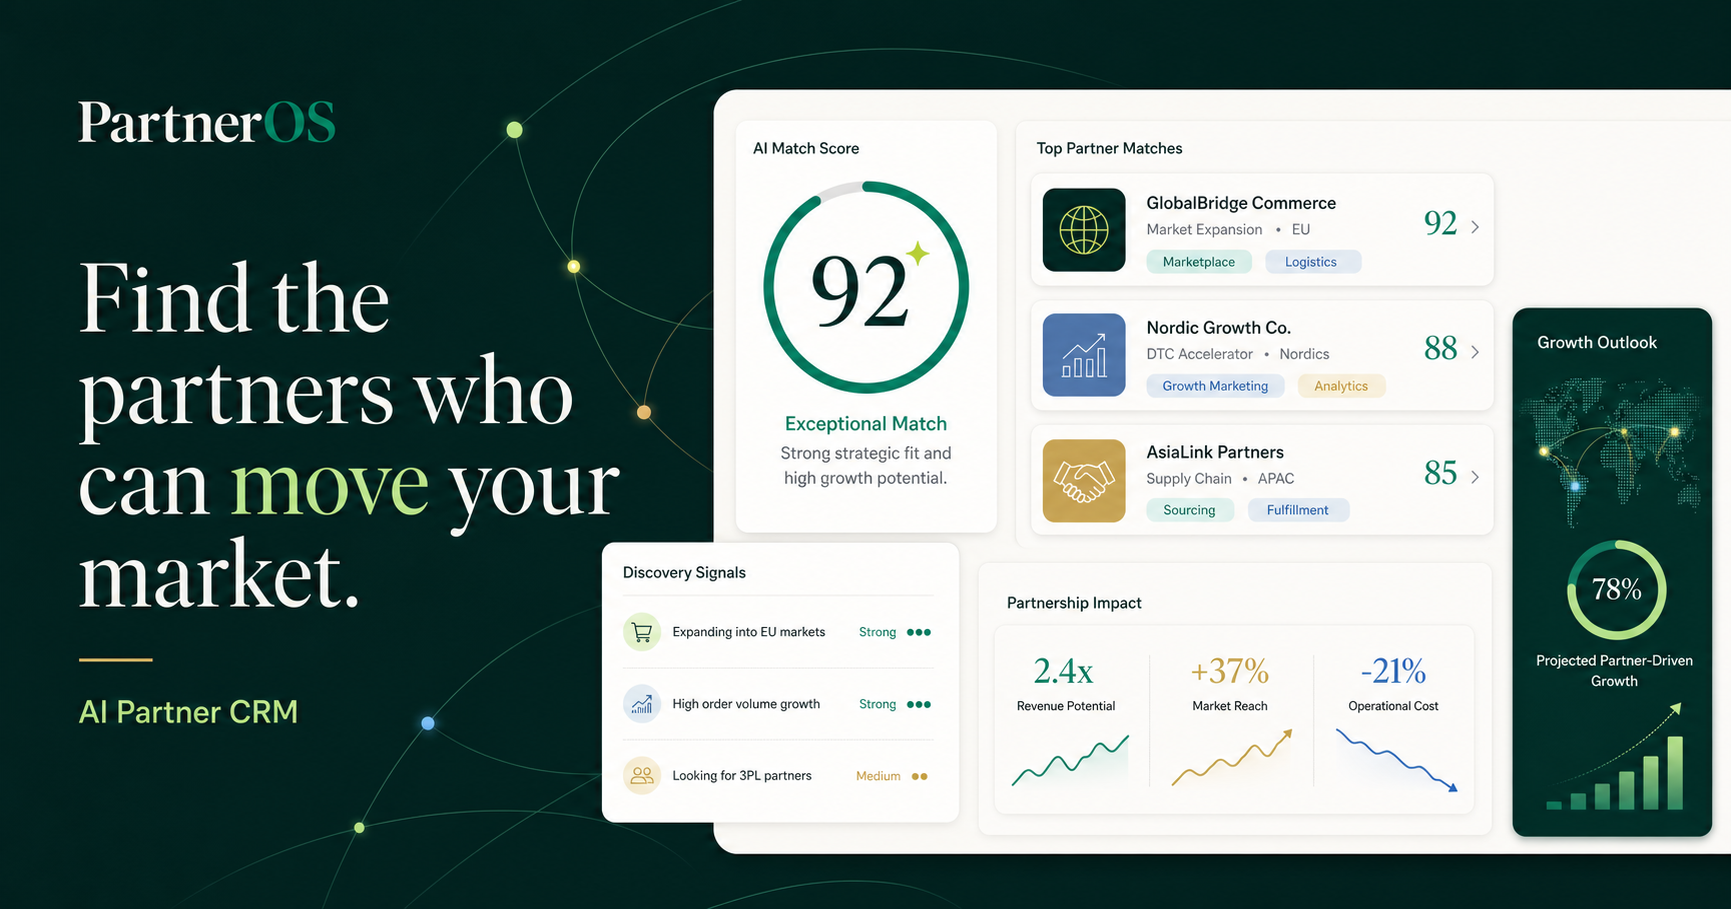
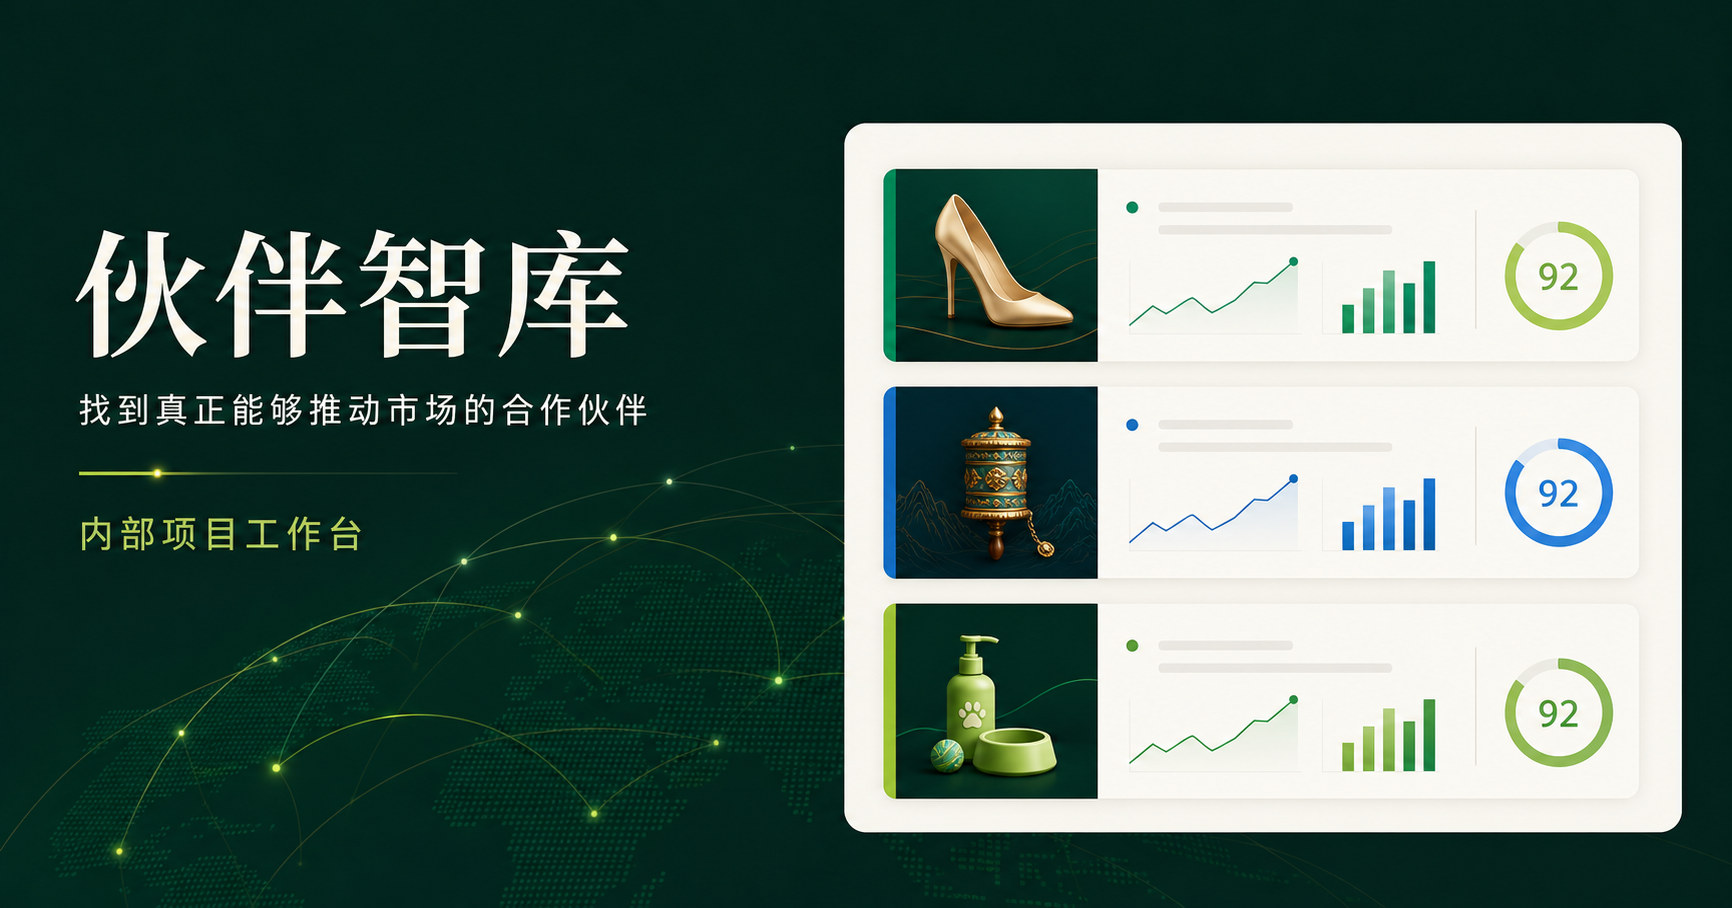
Add Chinese project workspaces

diff --git a/app/page.tsx b/app/page.tsx
@@ -2,116 +2,68 @@
 
 import { useMemo, useState } from "react";
 
-type Partner = {
-  name: string; handle: string; type: string; platform: string; niche: string;
-  followers: string; engagement: string; score: number; tier: "A" | "B" | "C";
-  status: string; contact: string; color: string; initials: string;
-};
+type Partner = { name:string; handle:string; type:string; platform:string; niche:string; followers:string; engagement:string; score:number; tier:"A"|"B"|"C"; status:string; contact:string; color:string; initials:string };
+type Project = { id:string; name:string; brand:string; product:string; market:string; code:string; description:string; partnerTypes:string; signals:string; cooperation:string; metrics:{found:number;qualified:number;ready:number;score:number}; partners:Partner[] };
 
-const partners: Partner[] = [
-  { name: "Sofia Reyes", handle: "@sofiastyled", type: "KOC", platform: "Instagram", niche: "Luxury shoes · Styling", followers: "42.8K", engagement: "4.8%", score: 92, tier: "A", status: "Contact Ready", contact: "[email redacted]", color: "#ead7c3", initials: "SR" },
-  { name: "The Bridal Edit", handle: "thebridaledit.com", type: "Affiliate", platform: "Blog", niche: "Wedding fashion · Reviews", followers: "128K", engagement: "3.9%", score: 88, tier: "A", status: "Qualified", contact: "[email redacted]", color: "#d4d9ef", initials: "BE" },
-  { name: "Maya Chen", handle: "@walkwithmaya", type: "Creator", platform: "YouTube", niche: "Try-on · Petite fashion", followers: "76.2K", engagement: "5.2%", score: 86, tier: "B", status: "Contacted", contact: "[email redacted]", color: "#cfe6dc", initials: "MC" },
-  { name: "Modern Heel", handle: "modernheel.com", type: "Media", platform: "Blog", niche: "Footwear · Editorial", followers: "91K", engagement: "2.7%", score: 79, tier: "B", status: "Replied", contact: "[email redacted]", color: "#e6d6cf", initials: "MH" },
-  { name: "Alexis Ward", handle: "@alexiswardrobe", type: "KOC", platform: "Instagram", niche: "Workwear · Shoe reviews", followers: "18.4K", engagement: "6.1%", score: 77, tier: "B", status: "Discovered", contact: "Contact page found", color: "#d8e3cd", initials: "AW" },
-  { name: "Luxe for Less", handle: "luxeforless.co", type: "Affiliate", platform: "Blog", niche: "Deals · Luxury fashion", followers: "210K", engagement: "1.9%", score: 68, tier: "C", status: "Discovered", contact: "Email not found", color: "#e3d6e8", initials: "LL" },
+const projects: Project[] = [
+  { id:"heels-us", name:"美国手工高跟鞋合作伙伴开发", brand:"AORARA", product:"手工高跟鞋", market:"美国", code:"HH-US-01", description:"优先寻找拥有美国女性受众、近期发布鞋履内容的中小型创作者与婚礼时尚联盟站。", partnerTypes:"KOC · 5千–8万粉丝 / 婚礼博主 / 时尚联盟站", signals:"试穿 · 鞋履测评 · 婚礼穿搭", cooperation:"产品寄样 · 12% 佣金", metrics:{found:248,qualified:67,ready:41,score:78}, partners:[
+    {name:"Sofia Reyes",handle:"@sofiastyled",type:"KOC",platform:"Instagram",niche:"高端鞋履 · 穿搭",followers:"4.28万",engagement:"4.8%",score:92,tier:"A",status:"待联系",contact:"[email redacted]",color:"#ead7c3",initials:"SR"},
+    {name:"The Bridal Edit",handle:"thebridaledit.com",type:"联盟站",platform:"独立博客",niche:"婚礼时尚 · 测评",followers:"12.8万",engagement:"3.9%",score:88,tier:"A",status:"已入选",contact:"[email redacted]",color:"#d4d9ef",initials:"BE"},
+    {name:"Maya Chen",handle:"@walkwithmaya",type:"创作者",platform:"YouTube",niche:"试穿 · 小个子穿搭",followers:"7.62万",engagement:"5.2%",score:86,tier:"B",status:"已联系",contact:"[email redacted]",color:"#cfe6dc",initials:"MC"},
+    {name:"Modern Heel",handle:"modernheel.com",type:"媒体",platform:"独立博客",niche:"鞋履 · 编辑内容",followers:"9.1万",engagement:"2.7%",score:79,tier:"B",status:"已回复",contact:"[email redacted]",color:"#e6d6cf",initials:"MH"},
+    {name:"Alexis Ward",handle:"@alexiswardrobe",type:"KOC",platform:"Instagram",niche:"职场穿搭 · 鞋履测评",followers:"1.84万",engagement:"6.1%",score:77,tier:"B",status:"新发现",contact:"已找到联系页面",color:"#d8e3cd",initials:"AW"}
+  ]},
+  { id:"tibet-global", name:"藏文化产品全球内容合作", brand:"TIBETAN TREASURES", product:"藏文化艺术与冥想产品", market:"美国、英国", code:"TC-GL-02", description:"寻找关注佛教文化、冥想、瑜伽与艺术收藏的创作者和媒体，强调文化尊重与内容质量。", partnerTypes:"灵性博主 / 瑜伽创作者 / 艺术媒体", signals:"冥想 · 佛教文化 · 艺术收藏", cooperation:"内容共创 · 专家访谈 · 寄样", metrics:{found:136,qualified:38,ready:19,score:74}, partners:[
+    {name:"Quiet Mind Studio",handle:"@quietmindstudio",type:"创作者",platform:"YouTube",niche:"冥想 · 东方文化",followers:"8.6万",engagement:"4.4%",score:90,tier:"A",status:"待联系",contact:"[email redacted]",color:"#ddd1bd",initials:"QM"},
+    {name:"Sacred Arts Journal",handle:"sacredartsjournal.com",type:"媒体",platform:"独立博客",niche:"宗教艺术 · 收藏",followers:"6.4万",engagement:"3.6%",score:85,tier:"A",status:"已入选",contact:"[email redacted]",color:"#d5c8b4",initials:"SA"},
+    {name:"Emma Flow",handle:"@emmaflowyoga",type:"KOL",platform:"Instagram",niche:"瑜伽 · 正念生活",followers:"15.2万",engagement:"3.2%",score:81,tier:"B",status:"洽谈中",contact:"[email redacted]",color:"#cfded5",initials:"EF"},
+    {name:"The Dharma Path",handle:"thedharmapath.org",type:"社群",platform:"论坛",niche:"佛教学习 · 社群",followers:"3.1万",engagement:"5.8%",score:76,tier:"B",status:"新发现",contact:"管理员联系表单",color:"#e6d9c9",initials:"DP"}
+  ]},
+  { id:"pet-us", name:"美国宠物口腔护理达人计划", brand:"PETSMILE LAB", product:"宠物口腔护理产品", market:"美国", code:"PC-US-03", description:"重点开发兽医、宠物护理博主和专业宠物媒体，优先选择可信度高、内容科学严谨的合作伙伴。", partnerTypes:"兽医 KOL / 宠物护理博主 / 行业媒体", signals:"口腔护理 · 兽医科普 · 产品测评", cooperation:"专业测评 · 付费内容 · 联盟佣金", metrics:{found:184,qualified:52,ready:33,score:82}, partners:[
+    {name:"Dr. Kelly Pets",handle:"@drkellypets",type:"兽医 KOL",platform:"YouTube",niche:"兽医科普 · 口腔健康",followers:"19.8万",engagement:"5.6%",score:94,tier:"A",status:"已回复",contact:"[email redacted]",color:"#cfe1dd",initials:"DK"},
+    {name:"Happy Paws Daily",handle:"@happypawsdaily",type:"KOC",platform:"Instagram",niche:"宠物护理 · 产品体验",followers:"5.3万",engagement:"6.4%",score:89,tier:"A",status:"待联系",contact:"[email redacted]",color:"#e8d6c1",initials:"HP"},
+    {name:"Pet Care Review",handle:"petcarereview.com",type:"联盟站",platform:"独立博客",niche:"宠物用品 · 测评",followers:"11.2万",engagement:"3.1%",score:83,tier:"B",status:"已联系",contact:"[email redacted]",color:"#d7ddef",initials:"PR"},
+    {name:"Vet Community US",handle:"vetcommunity.us",type:"社群",platform:"论坛",niche:"兽医交流 · 临床经验",followers:"2.7万",engagement:"7.2%",score:78,tier:"B",status:"新发现",contact:"管理员联系页面",color:"#d4e5d2",initials:"VC"}
+  ]}
 ];
 
-const nav = ["Overview", "Campaigns", "Partner discovery", "Partner CRM", "Outreach", "Analytics"];
+const nav = ["工作台","项目中心","伙伴发现","伙伴 CRM","触达管理","效果分析"];
 
 export default function Home() {
-  const [active, setActive] = useState("Partner discovery");
-  const [selected, setSelected] = useState<Partner | null>(partners[0]);
-  const [query, setQuery] = useState("");
-  const [tier, setTier] = useState("All tiers");
-  const [running, setRunning] = useState(false);
-  const [toast, setToast] = useState("");
-  const [campaignOpen, setCampaignOpen] = useState(false);
-  const [campaigns, setCampaigns] = useState(3);
+  const [active,setActive] = useState("伙伴发现");
+  const [projectId,setProjectId] = useState(projects[0].id);
+  const project = projects.find(x=>x.id===projectId) ?? projects[0];
+  const [selectedName,setSelectedName] = useState(project.partners[0].name);
+  const selected = project.partners.find(x=>x.name===selectedName) ?? project.partners[0];
+  const [query,setQuery] = useState(""); const [tier,setTier] = useState("全部层级");
+  const [running,setRunning] = useState(false); const [toast,setToast] = useState(""); const [campaignOpen,setCampaignOpen] = useState(false);
+  const filtered = useMemo(()=>project.partners.filter(p=>(tier==="全部层级"||p.tier===tier.slice(0,1))&&`${p.name} ${p.type} ${p.niche} ${p.platform}`.toLowerCase().includes(query.toLowerCase())),[project,query,tier]);
+  const notify=(msg:string)=>{setToast(msg);window.setTimeout(()=>setToast(""),2600)};
+  const switchProject=(id:string)=>{const next=projects.find(x=>x.id===id)??projects[0];setProjectId(id);setSelectedName(next.partners[0].name);setQuery("");setTier("全部层级");notify(`已切换到：${next.name}`)};
+  const runDiscovery=()=>{setRunning(true);window.setTimeout(()=>{setRunning(false);notify("发现任务完成，新找到 24 个候选伙伴")},1800)};
 
-  const filtered = useMemo(() => partners.filter(p =>
-    (tier === "All tiers" || p.tier === tier.replace(" tier", "")) &&
-    `${p.name} ${p.type} ${p.niche} ${p.platform}`.toLowerCase().includes(query.toLowerCase())
-  ), [query, tier]);
-
-  function notify(message: string) {
-    setToast(message); window.setTimeout(() => setToast(""), 2600);
-  }
-
-  function runDiscovery() {
-    setRunning(true);
-    window.setTimeout(() => { setRunning(false); notify("Discovery complete · 24 new candidates found"); }, 1800);
-  }
-
-  return (
-    <main className="app-shell">
-      <aside className="sidebar">
-        <div className="brand"><span className="brand-mark">P</span><span>Partner<span className="brand-accent">OS</span></span></div>
-        <div className="workspace"><span className="workspace-avatar">A</span><div><strong>AORARA</strong><small>Global workspace</small></div><span className="chev">⌄</span></div>
-        <nav>
-          <p className="nav-label">WORKSPACE</p>
-          {nav.map((item, i) => <button key={item} className={active === item ? "nav-item active" : "nav-item"} onClick={() => setActive(item)}><span className="nav-icon">{["⌂","◫","⌕","◎","↗","⌁"][i]}</span>{item}{item === "Partner discovery" && <em>24</em>}</button>)}
-          <p className="nav-label lower">MANAGE</p>
-          <button className="nav-item"><span className="nav-icon">▱</span>Templates</button>
-          <button className="nav-item"><span className="nav-icon">⚙</span>Integrations</button>
-        </nav>
-        <div className="trial-card"><div className="trial-icon">✦</div><strong>MVP workspace</strong><p>Connect discovery APIs when you are ready for live data.</p><button onClick={() => notify("Integration settings opened")}>Manage sources</button></div>
-        <div className="user"><span>AL</span><div><strong>Adrian Li</strong><small>Administrator</small></div><button>•••</button></div>
-      </aside>
-
-      <section className="workspace-main">
-        <header className="topbar">
-          <div className="breadcrumbs">Campaigns <span>/</span> <strong>US High Heels Creator Outreach</strong></div>
-          <div className="top-actions"><button className="icon-btn">?</button><button className="icon-btn">♢<i /></button><button className="primary" onClick={() => setCampaignOpen(true)}>＋ New campaign</button></div>
-        </header>
-
-        <div className="content">
-          <div className="campaign-head">
-            <div><div className="eyebrow"><span className="live-dot" /> DISCOVERY ACTIVE</div><h1>Find the partners who can<br/><em>move your market.</em></h1><p>AI-curated creators, affiliates and media matched to AORARA’s handmade heels in the United States.</p></div>
-            <div className="campaign-actions"><button className="secondary" onClick={() => notify("Search strategy regenerated")}>↻ Regenerate strategy</button><button className="run" onClick={runDiscovery} disabled={running}>{running ? <><span className="spinner"/>Searching the web…</> : "▶ Run discovery"}</button></div>
-          </div>
-
-          <div className="metric-grid">
-            <article><div><span className="metric-icon mint">◎</span><small>PARTNERS FOUND</small></div><strong>248</strong><p><b>+24</b> from last run</p></article>
-            <article><div><span className="metric-icon blue">✦</span><small>QUALIFIED</small></div><strong>67</strong><p>27% qualification rate</p></article>
-            <article><div><span className="metric-icon gold">↗</span><small>CONTACT READY</small></div><strong>41</strong><p>61% have verified email</p></article>
-            <article><div><span className="metric-icon lilac">◉</span><small>AVG. MATCH SCORE</small></div><strong>78<span>/100</span></strong><p><b>↑ 6 points</b> this week</p></article>
-          </div>
-
-          <section className="strategy-card">
-            <div className="strategy-top"><div><span className="ai-badge">✦ AI STRATEGY</span><h2>Your current discovery thesis</h2><p>Prioritise micro-creators with strong US female audiences and recent high-intent footwear content.</p></div><button onClick={() => notify("Partner ICP panel opened")}>View Partner ICP →</button></div>
-            <div className="strategy-tags"><div><small>TARGET PROFILES</small><span>KOC · 5K–80K</span><span>Wedding blogger</span><span>Fashion affiliate</span></div><div><small>CONTENT SIGNALS</small><span>Try-on</span><span>Shoe review</span><span>Wedding styling</span></div><div><small>COOPERATION</small><span>Product seeding</span><span>12% commission</span></div></div>
-          </section>
-
-          <div className="table-head"><div><h2>Partner candidates</h2><span>{filtered.length} shown · 248 total</span></div><div className="filters"><label>⌕<input value={query} onChange={e => setQuery(e.target.value)} placeholder="Search partners…"/></label><select value={tier} onChange={e => setTier(e.target.value)}><option>All tiers</option><option>A tier</option><option>B tier</option><option>C tier</option></select><button>☷ Filters <sup>2</sup></button></div></div>
-
-          <div className="partner-layout">
-            <div className="partner-table">
-              <div className="table-row table-labels"><span>PARTNER</span><span>TYPE & PLATFORM</span><span>AUDIENCE</span><span>MATCH</span><span>STATUS</span><span></span></div>
-              {filtered.map(p => <button className={selected?.name === p.name ? "table-row selected" : "table-row"} key={p.name} onClick={() => setSelected(p)}>
-                <span className="partner-cell"><i style={{background:p.color}}>{p.initials}</i><b>{p.name}<small>{p.handle}</small></b></span>
-                <span><b>{p.type}</b><small>{p.platform} · {p.niche}</small></span>
-                <span><b>{p.followers}</b><small>{p.engagement} engagement</small></span>
-                <span className="score"><b>{p.score}</b><i className={`tier tier-${p.tier}`}>{p.tier}</i></span>
-                <span><i className={`status status-${p.status.toLowerCase().replace(" ", "-")}`}>{p.status}</i></span><span className="dots">•••</span>
-              </button>)}
-            </div>
-
-            {selected && <aside className="detail-panel">
-              <button className="close-panel" onClick={() => setSelected(null)}>×</button>
-              <div className="detail-profile"><span style={{background:selected.color}}>{selected.initials}</span><h3>{selected.name}</h3><p>{selected.handle}</p><div><i>{selected.type}</i><i>{selected.platform}</i></div></div>
-              <div className="match-ring"><div><strong>{selected.score}</strong><small>/100</small></div><span><b>Strong match</b><small>Top 8% of this campaign</small></span></div>
-              <div className="reason"><h4>✦ Why this partner fits</h4><ul><li>Published 4 high-heel related posts in the last 90 days</li><li>US women aged 25–44 are the primary audience</li><li>Consistent views and authentic comment quality</li><li>Public business contact available</li></ul></div>
-              <div className="risk"><b>△ Watch signal</b><span>Posting frequency slowed slightly this month.</span></div>
-              <div className="contact"><small>BEST CONTACT</small><b>{selected.contact}</b></div>
-              <div className="detail-actions"><button onClick={() => notify(`${selected.name} moved to Contact Ready`)}>Qualify partner</button><button className="send" onClick={() => notify("Personalised outreach draft created")}>✦ Create outreach</button></div>
-            </aside>}
-          </div>
+  return <main className="app-shell">
+    <aside className="sidebar">
+      <div className="brand"><span className="brand-mark">P</span><span>伙伴<span className="brand-accent">智库</span></span></div>
+      <div className="workspace"><span className="workspace-avatar">A</span><div><strong>内部运营中心</strong><small>仅限团队使用</small></div><span className="chev">⌄</span></div>
+      <nav><p className="nav-label">业务工作区</p>{nav.map((item,i)=><button key={item} className={active===item?"nav-item active":"nav-item"} onClick={()=>setActive(item)}><span className="nav-icon">{["⌂","◫","⌕","◎","↗","⌁"][i]}</span>{item}{item==="伙伴发现"&&<em>{project.metrics.ready}</em>}</button>)}<p className="nav-label lower">系统管理</p><button className="nav-item"><span className="nav-icon">▱</span>话术模板</button><button className="nav-item"><span className="nav-icon">⚙</span>数据源设置</button></nav>
+      <div className="trial-card"><div className="trial-icon">✦</div><strong>当前为 MVP 版本</strong><p>接入正式数据源后，可运行真实搜索、抓取与邮件触达。</p><button onClick={()=>notify("已打开数据源设置")}>管理数据源</button></div>
+      <div className="user"><span>管</span><div><strong>系统管理员</strong><small>管理员权限</small></div><button>•••</button></div>
+    </aside>
+    <section className="workspace-main">
+      <header className="topbar"><div className="project-switch"><span>当前项目</span><select value={projectId} onChange={e=>switchProject(e.target.value)} aria-label="切换项目">{projects.map(x=><option value={x.id} key={x.id}>{x.name}</option>)}</select><i>{project.code}</i></div><div className="top-actions"><button className="icon-btn">?</button><button className="icon-btn">♢<i/></button><button className="primary" onClick={()=>setCampaignOpen(true)}>＋ 新建项目</button></div></header>
+      <div className="content">
+        <div className="project-context"><span><b>{project.brand}</b> · {project.product}</span><span>目标市场：{project.market}</span><span>项目编号：{project.code}</span></div>
+        <div className="campaign-head"><div><div className="eyebrow"><span className="live-dot"/> 项目发现任务运行中</div><h1>找到真正能够<br/><em>推动市场的合作伙伴</em></h1><p>{project.description}</p></div><div className="campaign-actions"><button className="secondary" onClick={()=>notify("AI 搜索策略已重新生成")}>↻ 重新生成策略</button><button className="run" onClick={runDiscovery} disabled={running}>{running?<><span className="spinner"/>正在搜索公开网络…</>:"▶ 运行伙伴发现"}</button></div></div>
+        <div className="metric-grid"><article><div><span className="metric-icon mint">◎</span><small>已发现伙伴</small></div><strong>{project.metrics.found}</strong><p><b>+24</b> 来自上次任务</p></article><article><div><span className="metric-icon blue">✦</span><small>符合条件</small></div><strong>{project.metrics.qualified}</strong><p>{Math.round(project.metrics.qualified/project.metrics.found*100)}% 入选率</p></article><article><div><span className="metric-icon gold">↗</span><small>可以联系</small></div><strong>{project.metrics.ready}</strong><p>已找到并核验联系方式</p></article><article><div><span className="metric-icon lilac">◉</span><small>平均匹配分</small></div><strong>{project.metrics.score}<span>/100</span></strong><p><b>项目独立计算</b></p></article></div>
+        <section className="strategy-card"><div className="strategy-top"><div><span className="ai-badge">✦ AI 项目策略</span><h2>本项目的伙伴发现逻辑</h2><p>{project.description}</p></div><button onClick={()=>notify("已打开本项目的伙伴画像")}>查看伙伴画像 →</button></div><div className="strategy-tags"><div><small>目标伙伴</small><span>{project.partnerTypes}</span></div><div><small>内容信号</small><span>{project.signals}</span></div><div><small>合作方式</small><span>{project.cooperation}</span></div></div></section>
+        <div className="table-head"><div><h2>本项目候选伙伴</h2><span>显示 {filtered.length} 条 · 项目共 {project.metrics.found} 条</span></div><div className="filters"><label>⌕<input value={query} onChange={e=>setQuery(e.target.value)} placeholder="搜索伙伴…"/></label><select value={tier} onChange={e=>setTier(e.target.value)}><option>全部层级</option><option>A 级</option><option>B 级</option><option>C 级</option></select><button>☷ 筛选 <sup>2</sup></button></div></div>
+        <div className="partner-layout"><div className="partner-table"><div className="table-row table-labels"><span>合作伙伴</span><span>类型与平台</span><span>账号规模</span><span>匹配度</span><span>当前状态</span><span></span></div>{filtered.map(p=><button className={selected?.name===p.name?"table-row selected":"table-row"} key={p.name} onClick={()=>setSelectedName(p.name)}><span className="partner-cell"><i style={{background:p.color}}>{p.initials}</i><b>{p.name}<small>{p.handle}</small></b></span><span><b>{p.type}</b><small>{p.platform} · {p.niche}</small></span><span><b>{p.followers}</b><small>互动率 {p.engagement}</small></span><span className="score"><b>{p.score}</b><i className={`tier tier-${p.tier}`}>{p.tier}</i></span><span><i className="status">{p.status}</i></span><span className="dots">•••</span></button>)}</div>
+          {selected&&<aside className="detail-panel"><div className="detail-project">仅属于项目：{project.code}</div><div className="detail-profile"><span style={{background:selected.color}}>{selected.initials}</span><h3>{selected.name}</h3><p>{selected.handle}</p><div><i>{selected.type}</i><i>{selected.platform}</i></div></div><div className="match-ring"><div><strong>{selected.score}</strong><small>/100</small></div><span><b>高度匹配</b><small>本项目候选池前 8%</small></span></div><div className="reason"><h4>✦ 为什么适合本项目</h4><ul><li>近期内容与“{project.product}”相关</li><li>核心受众覆盖目标市场：{project.market}</li><li>内容互动真实，更新频率稳定</li><li>已找到公开商务联系方式</li></ul></div><div className="risk"><b>△ 需要关注</b><span>正式联系前建议人工复核近期内容与品牌安全。</span></div><div className="contact"><small>推荐联系方式</small><b>{selected.contact}</b></div><div className="detail-actions"><button onClick={()=>notify(`${selected.name} 已加入本项目待联系名单`)}>确认入选</button><button className="send" onClick={()=>notify("已生成中文个性化触达草稿")}>✦ 生成触达话术</button></div></aside>}
         </div>
-      </section>
-
-      {campaignOpen && <div className="modal-backdrop" onMouseDown={() => setCampaignOpen(false)}><form className="modal" onMouseDown={e => e.stopPropagation()} onSubmit={e => {e.preventDefault(); setCampaigns(campaigns + 1); setCampaignOpen(false); notify("Campaign created · AI is preparing the ICP");}}><button type="button" className="modal-close" onClick={() => setCampaignOpen(false)}>×</button><span className="ai-badge">NEW CAMPAIGN</span><h2>Build your partner pipeline</h2><p>Tell us what you sell and who you want to reach. AI will prepare the partner ICP and search strategy.</p><div className="form-grid"><label>Campaign name<input required defaultValue={`US Creator Outreach ${campaigns + 1}`}/></label><label>Brand<input required defaultValue="AORARA"/></label><label>Product<input required placeholder="e.g. Handmade high heels"/></label><label>Target market<select><option>United States</option><option>United Kingdom</option><option>Germany</option></select></label><label className="wide">Partner types<div className="check-row"><span>✓ KOC</span><span>✓ Creator</span><span>✓ Affiliate</span><span>＋ Media</span></div></label></div><button className="create-submit">Create campaign & generate ICP →</button></form></div>}
-      {toast && <div className="toast"><span>✓</span>{toast}</div>}
-    </main>
-  );
+      </div>
+    </section>
+    {campaignOpen&&<div className="modal-backdrop" onMouseDown={()=>setCampaignOpen(false)}><form className="modal" onMouseDown={e=>e.stopPropagation()} onSubmit={e=>{e.preventDefault();setCampaignOpen(false);notify("新项目已创建，AI 正在生成独立画像和搜索策略")}}><button type="button" className="modal-close" onClick={()=>setCampaignOpen(false)}>×</button><span className="ai-badge">新建独立项目</span><h2>创建合作伙伴开发项目</h2><p>每个项目的数据完全独立，包括画像、搜索词、伙伴池、触达记录和效果数据。</p><div className="form-grid"><label>项目名称<input required placeholder="例如：德国宠物护理伙伴开发"/></label><label>品牌名称<input required placeholder="请输入品牌名称"/></label><label>产品名称<input required placeholder="请输入具体产品"/></label><label>目标市场<select><option>美国</option><option>英国</option><option>德国</option><option>全球</option></select></label><label className="wide">伙伴类型<div className="check-row"><span>✓ KOC</span><span>✓ 内容创作者</span><span>✓ 联盟站</span><span>＋ 垂直媒体</span></div></label></div><button className="create-submit">创建项目并生成独立画像 →</button></form></div>}
+    {toast&&<div className="toast"><span>✓</span>{toast}</div>}
+  </main>;
 }

diff --git a/app/layout.tsx b/app/layout.tsx
@@ -9,13 +9,13 @@ export async function generateMetadata(): Promise<Metadata> {
   const origin = `${protocol}://${host}`;
   return {
     metadataBase: new URL(origin),
-    title: "PartnerOS — AI Partner CRM",
-    description: "AI-powered global partner development for cross-border ecommerce.",
-    openGraph: { title: "PartnerOS — AI Partner CRM", description: "Find the partners who can move your market.", images: [{ url: `${origin}/og.png`, width: 1732, height: 909 }] },
-    twitter: { card: "summary_large_image", title: "PartnerOS — AI Partner CRM", description: "Find the partners who can move your market.", images: [`${origin}/og.png`] },
+    title: "伙伴智库 — 跨境电商全球合作伙伴开发系统",
+    description: "面向内部团队的 AI 合作伙伴发现、筛选、触达与效果管理系统。",
+    openGraph: { title: "伙伴智库", description: "找到真正能够推动市场的合作伙伴。", images: [{ url: `${origin}/og.png`, width: 1732, height: 909 }] },
+    twitter: { card: "summary_large_image", title: "伙伴智库", description: "跨境电商全球合作伙伴开发系统", images: [`${origin}/og.png`] },
   };
 }
 
 export default function RootLayout({ children }: Readonly<{ children: React.ReactNode }>) {
-  return <html lang="en"><body>{children}</body></html>;
+  return <html lang="zh-CN"><body>{children}</body></html>;
 }

diff --git a/app/globals.css b/app/globals.css
@@ -1,4 +1,5 @@
 @import "tailwindcss";
 
 :root{--ink:#172926;--muted:#6f7c78;--line:#e3e8e5;--paper:#f6f7f4;--white:#fff;--green:#0a725d;--deep:#122d29;--lime:#b7df70}
+.project-switch{display:flex;align-items:center;gap:9px}.project-switch>span{font-size:9px;color:#83908c}.project-switch select{border:0;background:transparent;color:#29433d;font-size:12px;font-weight:700;max-width:310px;outline:none;cursor:pointer}.project-switch>i{font-size:8px;font-style:normal;color:#6f817b;background:#eef2ef;border-radius:5px;padding:4px 6px}.project-context{display:flex;gap:8px;margin-bottom:17px;flex-wrap:wrap}.project-context span{font-size:9px;color:#687975;background:#fff;border:1px solid var(--line);border-radius:14px;padding:5px 9px}.project-context b{color:#176f5c}.detail-project{font-size:7px;color:#19735f;background:#e4f1eb;border-radius:6px;padding:6px 8px;margin-bottom:12px;text-align:center;letter-spacing:.3px}
 *{box-sizing:border-box}body{margin:0;background:var(--paper);color:var(--ink);font-family:Inter,"Segoe UI",Arial,sans-serif}.app-shell{min-height:100vh;display:flex}.sidebar{position:fixed;inset:0 auto 0 0;width:236px;background:var(--deep);color:#eef6f2;padding:25px 15px 18px;display:flex;flex-direction:column;z-index:5}.brand{display:flex;align-items:center;gap:10px;font-size:20px;font-weight:760;letter-spacing:-.5px;padding:0 8px 23px}.brand-mark{width:30px;height:30px;border-radius:9px;background:var(--lime);color:var(--deep);display:grid;place-items:center;font-family:Georgia;font-style:italic}.brand-accent{color:var(--lime)}.workspace{border:1px solid #31504a;background:#193834;border-radius:11px;padding:9px;display:flex;align-items:center;gap:9px}.workspace-avatar{width:31px;height:31px;border-radius:8px;background:#d7e6df;color:#23463f;display:grid;place-items:center;font-weight:800}.workspace div{display:flex;flex-direction:column;line-height:1.25;flex:1}.workspace strong{font-size:12px}.workspace small,.user small{color:#8ea8a1;font-size:10px}.chev{color:#8ea8a1}.nav-label{font-size:9px;letter-spacing:1.5px;color:#6f9188;margin:25px 10px 9px}.nav-label.lower{margin-top:23px}.nav-item{width:100%;height:39px;border:0;background:transparent;color:#a9bcb7;border-radius:8px;display:flex;align-items:center;gap:11px;padding:0 11px;font-size:12px;text-align:left;cursor:pointer}.nav-item:hover{color:#fff;background:#193834}.nav-item.active{color:#fff;background:#254640;font-weight:650}.nav-icon{width:17px;font-size:16px;text-align:center}.nav-item em{margin-left:auto;background:var(--lime);color:#1b3b34;border-radius:10px;font-size:9px;font-style:normal;padding:2px 6px}.trial-card{margin-top:auto;background:#193834;border:1px solid #31504a;border-radius:12px;padding:14px}.trial-icon{width:27px;height:27px;background:#2c534b;border-radius:7px;color:var(--lime);display:grid;place-items:center;margin-bottom:9px}.trial-card strong{font-size:11px}.trial-card p{font-size:10px;color:#8ea8a1;line-height:1.5;margin:5px 0 11px}.trial-card button{border:0;background:none;color:#cde7de;font-size:10px;padding:0;cursor:pointer}.user{display:flex;align-items:center;gap:9px;padding:16px 6px 0}.user>span{width:30px;height:30px;border-radius:50%;background:#d9a779;color:#55371e;display:grid;place-items:center;font-size:10px;font-weight:800}.user div{display:flex;flex-direction:column;flex:1}.user strong{font-size:11px}.user button{border:0;background:none;color:#79958d}.workspace-main{margin-left:236px;width:calc(100% - 236px)}.topbar{height:66px;background:#fff;border-bottom:1px solid var(--line);display:flex;align-items:center;justify-content:space-between;padding:0 30px;position:sticky;top:0;z-index:4}.breadcrumbs{font-size:11px;color:#83908c}.breadcrumbs span{margin:0 8px;color:#bbc2bf}.breadcrumbs strong{color:#334b46}.top-actions{display:flex;gap:8px;align-items:center}.icon-btn{width:34px;height:34px;border:1px solid var(--line);border-radius:8px;background:white;color:#50635e;position:relative}.icon-btn i{position:absolute;width:5px;height:5px;background:#dc6a48;border-radius:50%;right:5px;top:5px}.primary,.run{background:var(--green);border:0;color:white;border-radius:8px;height:36px;padding:0 15px;font-size:11px;font-weight:650;cursor:pointer}.content{max-width:1390px;margin:auto;padding:34px 35px 60px}.campaign-head{display:flex;justify-content:space-between;align-items:flex-end;margin-bottom:28px}.eyebrow{font-size:9px;font-weight:750;letter-spacing:1.4px;color:var(--green);margin-bottom:11px}.live-dot{width:6px;height:6px;background:#37ab7a;border-radius:50%;display:inline-block;margin-right:7px;box-shadow:0 0 0 4px #d9efe6}.campaign-head h1{font-family:Georgia,"Times New Roman",serif;font-size:38px;line-height:1.08;font-weight:500;letter-spacing:-1px;margin:0}.campaign-head h1 em{font-weight:400;color:var(--green)}.campaign-head p{color:var(--muted);font-size:12px;margin:12px 0 0;max-width:590px}.campaign-actions{display:flex;gap:9px}.secondary{height:36px;border:1px solid #dbe2df;background:white;border-radius:8px;color:#4e625d;font-size:11px;padding:0 14px;cursor:pointer}.run{min-width:126px}.run:disabled{opacity:.7}.spinner{display:inline-block;width:10px;height:10px;border:2px solid #ffffff55;border-top-color:white;border-radius:50%;animation:spin .7s linear infinite;margin-right:7px}@keyframes spin{to{transform:rotate(360deg)}}.metric-grid{display:grid;grid-template-columns:repeat(4,1fr);gap:12px;margin-bottom:14px}.metric-grid article{background:white;border:1px solid var(--line);border-radius:12px;padding:15px 17px}.metric-grid article>div{display:flex;align-items:center;gap:8px}.metric-icon{width:25px;height:25px;border-radius:7px;display:grid;place-items:center;font-size:12px}.metric-icon.mint{background:#dff0e8;color:#18755e}.metric-icon.blue{background:#e3e9f6;color:#536eaa}.metric-icon.gold{background:#f1ead8;color:#91732d}.metric-icon.lilac{background:#eee5f1;color:#815a8f}.metric-grid small{font-size:8px;letter-spacing:1px;color:#80908b;font-weight:750}.metric-grid strong{font-family:Georgia;font-size:28px;display:block;margin-top:12px;font-weight:500}.metric-grid strong span{font-family:Inter;font-size:11px;color:#96a19e}.metric-grid p{font-size:9px;color:#82908d;margin:3px 0}.metric-grid p b{color:#13815f}.strategy-card{background:#edf4ef;border:1px solid #d5e3dc;border-radius:12px;padding:19px 22px;margin-bottom:27px}.strategy-top{display:flex;justify-content:space-between;align-items:start}.ai-badge{font-size:8px;letter-spacing:1px;font-weight:800;color:#14735f;background:#dbece5;padding:5px 7px;border-radius:5px}.strategy-top h2{font-family:Georgia;font-size:18px;font-weight:500;margin:12px 0 4px}.strategy-top p{font-size:10px;color:#667873;margin:0}.strategy-top button{border:0;background:transparent;color:#176e5c;font-size:10px;font-weight:700;cursor:pointer}.strategy-tags{display:grid;grid-template-columns:1.1fr 1.1fr .8fr;border-top:1px solid #d5e3dc;margin-top:16px;padding-top:13px;gap:20px}.strategy-tags>div{display:flex;align-items:center;gap:6px;flex-wrap:wrap}.strategy-tags small{font-size:7px;letter-spacing:.8px;color:#7c8c87;width:100%;font-weight:750}.strategy-tags span{font-size:9px;background:#fff;border:1px solid #d6e1dd;border-radius:13px;padding:4px 8px}.table-head{display:flex;align-items:center;justify-content:space-between;margin-bottom:10px}.table-head>div:first-child{display:flex;align-items:baseline;gap:9px}.table-head h2{font-family:Georgia;font-size:20px;font-weight:500;margin:0}.table-head>div>span{font-size:9px;color:#8a9692}.filters{display:flex;gap:7px}.filters label{height:33px;width:180px;border:1px solid var(--line);border-radius:7px;background:white;display:flex;align-items:center;padding:0 9px;color:#82918c}.filters input{border:0;outline:0;width:100%;font-size:10px;padding-left:7px}.filters select,.filters button{height:33px;border:1px solid var(--line);background:#fff;border-radius:7px;color:#53655f;font-size:10px;padding:0 10px}.filters sup{background:#dcede6;color:#146b59;border-radius:8px;padding:1px 5px}.partner-layout{display:flex;gap:12px;align-items:flex-start}.partner-table{background:#fff;border:1px solid var(--line);border-radius:12px;overflow:hidden;flex:1;min-width:0}.table-row{border:0;border-bottom:1px solid #edf0ee;background:white;width:100%;min-height:64px;display:grid;grid-template-columns:1.6fr 1.3fr .8fr .55fr .8fr 24px;align-items:center;text-align:left;padding:0 14px;cursor:pointer;color:var(--ink);font:inherit}.table-row:last-child{border-bottom:0}.table-row:hover,.table-row.selected{background:#f7faf8}.table-row.selected{box-shadow:inset 3px 0 var(--green)}.table-labels{min-height:34px;background:#fafbf9;font-size:7px;letter-spacing:.7px;color:#83908c;font-weight:750;cursor:default}.table-row>span{display:flex;flex-direction:column;gap:4px;font-size:10px;min-width:0}.table-row b{font-size:10px}.table-row small{font-size:8px;color:#87938f;white-space:nowrap;overflow:hidden;text-overflow:ellipsis}.partner-cell{flex-direction:row!important;align-items:center;gap:9px!important}.partner-cell>i{width:31px;height:31px;display:grid;place-items:center;border-radius:8px;font-size:9px;font-style:normal;font-weight:800;flex:0 0 auto}.partner-cell b{display:flex;flex-direction:column;gap:4px;min-width:0}.score{flex-direction:row!important;align-items:center;gap:6px!important}.score>b{font-family:Georgia;font-size:17px}.tier{width:18px;height:18px;border-radius:5px;display:grid;place-items:center;font-size:8px;font-style:normal;font-weight:800}.tier-A{background:#dcefe7;color:#0a745b}.tier-B{background:#e6ecf6;color:#4a65a0}.tier-C{background:#f2ead9;color:#866c31}.status{font-style:normal;font-size:8px;padding:5px 7px;border-radius:10px;background:#edf0ef;color:#64726e;width:max-content}.status-contact-ready,.status-qualified{background:#dcefe7;color:#14705b}.status-contacted{background:#e5eaf6;color:#516ca3}.status-replied{background:#f2ead8;color:#866b2f}.dots{color:#899692}.detail-panel{width:278px;flex:0 0 278px;background:#fff;border:1px solid var(--line);border-radius:12px;padding:20px;position:relative}.close-panel{position:absolute;right:10px;top:9px;border:0;background:none;color:#8a9692;font-size:18px}.detail-profile{text-align:center;border-bottom:1px solid var(--line);padding-bottom:16px}.detail-profile>span{width:48px;height:48px;border-radius:12px;display:grid;place-items:center;margin:auto;font-weight:800}.detail-profile h3{font-family:Georgia;font-size:18px;margin:8px 0 2px;font-weight:500}.detail-profile p{font-size:9px;color:#81908c;margin:0 0 8px}.detail-profile div{display:flex;justify-content:center;gap:5px}.detail-profile i{font-style:normal;font-size:8px;border:1px solid var(--line);border-radius:10px;padding:3px 7px}.match-ring{display:flex;align-items:center;gap:12px;padding:15px 0;border-bottom:1px solid var(--line)}.match-ring>div{width:50px;height:50px;border-radius:50%;background:conic-gradient(var(--green) 0 92%,#e5ebe8 92%);display:grid;place-items:center;position:relative}.match-ring>div:after{content:"";position:absolute;inset:4px;background:#fff;border-radius:50%}.match-ring strong,.match-ring div small{z-index:1;grid-area:1/1}.match-ring strong{font-family:Georgia;font-size:17px}.match-ring div small{font-size:6px;transform:translateY(12px);color:#8a9692}.match-ring>span{display:flex;flex-direction:column;gap:4px}.match-ring span b{font-size:10px}.match-ring span small{font-size:8px;color:#82908d}.reason{padding:14px 0 10px}.reason h4{font-size:9px;color:#176f5c;margin:0}.reason ul{padding-left:14px;margin:9px 0}.reason li{font-size:8px;color:#5c6c67;line-height:1.55;margin:3px 0}.risk{background:#fbf5e9;border-radius:7px;padding:8px;display:flex;flex-direction:column;gap:3px}.risk b{font-size:8px;color:#856729}.risk span{font-size:7px;color:#746a56}.contact{display:flex;flex-direction:column;padding:13px 0;gap:4px}.contact small{font-size:7px;color:#84918e;letter-spacing:.8px}.contact b{font-size:9px}.detail-actions{display:grid;grid-template-columns:1fr 1fr;gap:7px}.detail-actions button{border:1px solid var(--line);background:#fff;border-radius:7px;height:32px;font-size:8px;color:#435853}.detail-actions .send{background:var(--green);color:#fff;border-color:var(--green)}.modal-backdrop{position:fixed;inset:0;background:#132b2788;backdrop-filter:blur(3px);display:grid;place-items:center;z-index:20;padding:20px}.modal{width:min(570px,100%);background:white;border-radius:17px;padding:30px;box-shadow:0 24px 70px #10211e33;position:relative}.modal-close{position:absolute;right:18px;top:14px;border:0;background:none;font-size:23px;color:#82908c}.modal h2{font:500 27px Georgia;margin:14px 0 7px}.modal>p{color:#74817d;font-size:11px;line-height:1.5;margin:0 0 20px}.form-grid{display:grid;grid-template-columns:1fr 1fr;gap:14px}.form-grid label{font-size:9px;font-weight:700;color:#53655f;display:flex;flex-direction:column;gap:6px}.form-grid input,.form-grid select{height:39px;border:1px solid var(--line);border-radius:8px;padding:0 11px;font:11px inherit;color:var(--ink);outline:none}.form-grid input:focus{border-color:var(--green)}.form-grid .wide{grid-column:1/-1}.check-row{display:flex;gap:7px}.check-row span{border:1px solid #dbe4df;background:#f6f9f7;border-radius:7px;padding:8px 11px;color:#2e5b50;font-weight:500}.create-submit{width:100%;height:42px;border:0;border-radius:8px;background:var(--green);color:white;font-size:11px;font-weight:700;margin-top:22px}.toast{position:fixed;right:24px;bottom:24px;background:#173d35;color:white;border-radius:10px;padding:12px 16px;font-size:10px;box-shadow:0 12px 30px #183f3633;z-index:30}.toast span{display:inline-grid;place-items:center;width:18px;height:18px;border-radius:50%;background:var(--lime);color:var(--deep);margin-right:8px}@media(max-width:1100px){.detail-panel{display:none}.metric-grid{grid-template-columns:repeat(2,1fr)}.table-row{grid-template-columns:1.5fr 1.2fr .7fr .5fr .8fr 20px}}@media(max-width:780px){.sidebar{width:64px;padding:20px 8px}.sidebar .brand>span:last-child,.workspace div,.workspace .chev,.nav-label,.nav-item:not(.active),.nav-item.active:not(:has(em)) .nav-icon,.nav-item{font-size:0}.brand{padding:0 8px 22px}.workspace{padding:7px}.workspace-avatar{width:31px}.nav-item{display:flex;justify-content:center;padding:0}.nav-item .nav-icon{font-size:17px}.nav-item em{font-size:8px;position:absolute;margin:0 0 23px 25px}.trial-card,.user div,.user button{display:none}.user{padding:15px 8px 0}.workspace-main{margin-left:64px;width:calc(100% - 64px)}.content{padding:25px 18px}.campaign-head{align-items:start;gap:18px}.campaign-head h1{font-size:31px}.campaign-actions{flex-direction:column}.strategy-tags{grid-template-columns:1fr}.table-head{align-items:flex-start;gap:10px}.filters label{width:130px}.filters select{display:none}.table-row{grid-template-columns:1.6fr 1fr .6fr}.table-row>span:nth-child(3),.table-row>span:nth-child(5),.table-row>span:nth-child(6),.table-labels>span:nth-child(3),.table-labels>span:nth-child(5),.table-labels>span:nth-child(6){display:none}}@media(max-width:560px){.topbar{padding:0 15px}.breadcrumbs strong{display:none}.icon-btn{display:none}.content{padding:20px 12px}.campaign-head{display:block}.campaign-actions{margin-top:18px;flex-direction:row}.secondary{display:none}.metric-grid{grid-template-columns:1fr 1fr;gap:7px}.strategy-card{padding:15px}.strategy-top button{display:none}.table-head{display:block}.filters{margin-top:10px}.filters label{flex:1}.filters button{width:90px}.table-row{grid-template-columns:1.55fr 1fr .55fr;padding:0 9px}.form-grid{grid-template-columns:1fr}.form-grid .wide{grid-column:auto}.check-row{flex-wrap:wrap}}

diff --git a/README.md b/README.md
@@ -2,6 +2,8 @@
 
 跨境电商全球合作伙伴开发 MVP，覆盖 Campaign、Partner ICP、搜索策略、伙伴发现、统一档案、AI 评分、人工审核触达与合作效果 CRM。
 
+系统定位为内部中文工作台。每个项目通过唯一项目编号和 `campaignId` 隔离产品画像、目标市场、搜索词、候选伙伴、评分、触达记录及效果数据；同一伙伴可以出现在多个项目中，但拥有各项目独立的评分与 CRM 状态。
+
 ## 当前可用
 
 - 高保真响应式 Partner Discovery 工作台